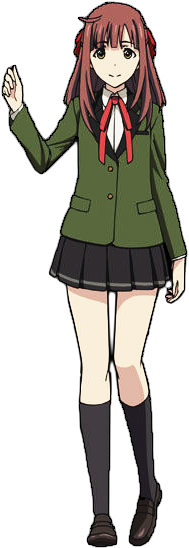
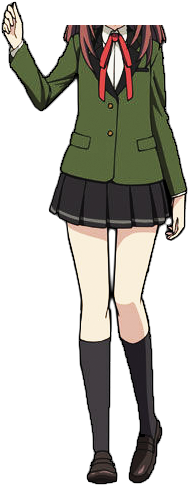
no message

diff --git a/src/component/Coins.js b/src/component/Coins.js
@@ -1,0 +1,61 @@
+import 'aframe';
+import 'aframe-particle-system-component';
+import 'babel-polyfill';
+import {Entity} from 'aframe-react';
+import React from 'react';
+
+class Coins extends React.Component {
+  constructor(props) {
+    super(props);
+    this.state = {
+      coins: [0,0,0,0,0]
+    };
+  }
+
+  componentDidMount() {
+    var coins = this.state.coins;
+    const count = coins.length;
+    const mid = Math.floor(count/2);
+    var value = 1;
+    for (var i = 0; i < this.props.amount; i++) {
+      if(i === 0) {
+        coins[mid] = 1;
+        continue;
+      }
+      if(i % 2 > 0) {
+        coins[mid - value] = 1;
+      }else{
+        coins[mid + value] = 1;
+        value++;
+      }
+    }
+    this.setState({coins});
+  }
+
+  render () {
+    const center = this.props.center;
+    const startx = this.state.coins.length/2+(Math.ceil(this.state.coins.length/2)-1)*0.2-0.5;
+    return (
+      <Entity>
+
+        {this.state.coins.map(function(result, reactid) {
+          var coinimg = 'coin';
+          if(result == 0) {
+            coinimg = 'coinno';
+          }
+          return (
+            <Entity key={'Marker'+reactid} 
+            geometry={{primitive: 'plane'}} 
+            position={(1.2*reactid-startx)+" 17 12"}
+            scale='1 1.41 1'
+            material={{src: require('../resource/'+coinimg+'.png'), side:'double', transparent:true}}>
+            </Entity>
+          )
+        })}
+
+      </Entity>
+    );
+  }
+}
+
+export default Coins;

diff --git a/src/App.js b/src/App.js
@@ -8,6 +8,7 @@ import React from 'react';
 import MoveBoxes from './component/MoveBoxes';
 import Desk from './component/Desk';
 import Character from './component/Character';
+import Coins from './component/Coins';
 
 class App extends React.Component {
   constructor(props) {
@@ -40,12 +41,13 @@ class App extends React.Component {
                 scale='5 5 5'>
         </Entity>
         <Desk texture="#deskTexture"/>
-        <Character center={{x: -1, y: 14, z: 12}}/>
+        <Character center={{x: 0, y: 14, z: 10.2}}/>
+        <Coins center={{x: 0, y: 15, z: 11}} amount={3}/>
 
         <Entity primitive="a-plane" src="#groundTexture" rotation="-90 0 0" height="100" width="100"/>
         <Entity primitive="a-sky" height="2048" radius="30" src="#skyTexture" theta-length="90" width="2048"/>
 
-        <Entity primitive="a-camera" position="0 15 10">
+        <Entity primitive="a-camera" position="0 15.2 10">
           <Entity primitive="a-cursor" animation__click={{property: 'scale', startEvents: 'click', from: '0.1 0.1 0.1', to: '1 1 1', dur: 150}}/>
         </Entity>
       </Scene>

diff --git a/src/component/Character.js b/src/component/Character.js
@@ -29,8 +29,8 @@ class Character extends React.Component {
     return (
       <Entity>
 
-        <Entity geometry={{primitive: 'plane'}} position={center.x+" "+center.y+" "+(0.005+center.z)} scale='1 2.9 1' rotation="0 0 0" material={{src: require('../resource/suzukobk.png'), side:'double', transparent:true}}></Entity>
-        <Entity geometry={{primitive: 'plane'}} position={center.x+" "+center.y+" "+(-0.005+center.z)} scale='1 2.9 1' rotation="0 0 0" material={{src: require('../resource/suzuko.png'), side:'double', transparent:true}}></Entity>
+        <Entity geometry={{primitive: 'plane'}} position={center.x+" "+center.y+" "+(0.005+center.z)} scale='1 2.57 1' rotation="0 0 0" material={{src: require('../resource/suzukobk.png'), side:'double', transparent:true}}></Entity>
+        <Entity geometry={{primitive: 'plane'}} position={center.x+" "+center.y+" "+(-0.005+center.z)} scale='1 2.57 1' rotation="0 0 0" material={{src: require('../resource/suzuko.png'), side:'double', transparent:true}}></Entity>
 
       </Entity>
     );

diff --git a/src/component/MoveBoxes.js b/src/component/MoveBoxes.js
@@ -15,8 +15,6 @@ class MoveBoxes extends React.Component {
   }
 
   componentDidMount() {
-    console.log(this.props.width)
-
     const centerpos = this.props.center;
     const hw = this.props.width;
 
